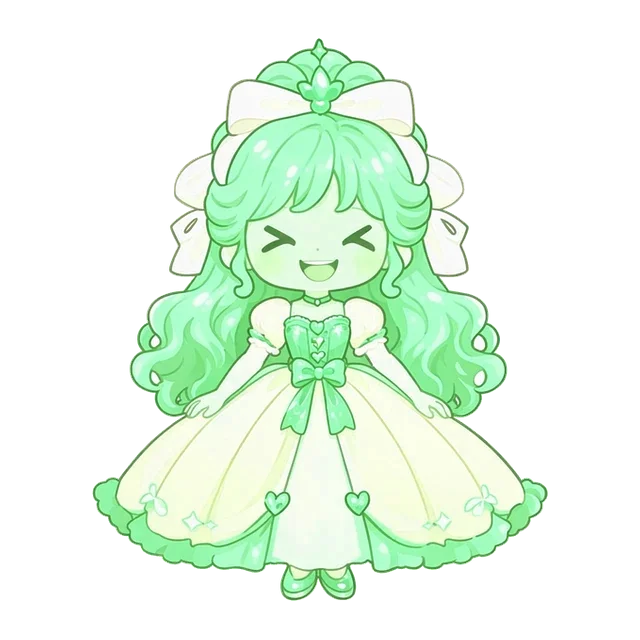
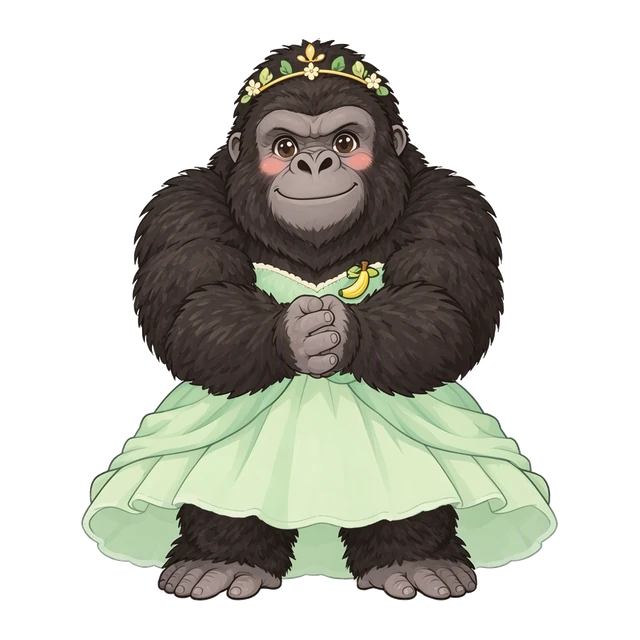
ゴリラの プリンセスの 絵を 本番の 絵に さしかえ（idle/happy/oops は 同じ 1まい）

diff --git a/docs/gorilla-character.md b/docs/gorilla-character.md
@@ -15,9 +15,9 @@
 
 | ファイル | サイズ | 中身 | いまの 仮の 絵 |
 |---|---|---|---|
-| `src/art/chars/gorilla_idle.webp` | 640×640 | ゴリラの プリンセス 立ち絵（ふつう） | ロゼの 絵を みどりに 色がえ |
-| `src/art/chars/gorilla_happy.webp` | 640×640 | よろこび（にっこり、むねの 前で こぶし） | 同上 |
-| `src/art/chars/gorilla_oops.webp` | 640×640 | ざんねん（こまり顔、でも やさしい） | 同上 |
+| `src/art/chars/gorilla_idle.webp` | 640×640 | ゴリラの プリンセス 立ち絵（ふつう） | **本番の 絵**（Moss-image 1まい。白い 背景を tools/art/process.py の 抜き方で 透明に） |
+| `src/art/chars/gorilla_happy.webp` | 640×640 | よろこび（にっこり、むねの 前で こぶし） | いまは idle と 同じ 絵（正解の ドラミングで 表情の ちがいを おぎなう） |
+| `src/art/chars/gorilla_oops.webp` | 640×640 | ざんねん（こまり顔、でも やさしい） | いまは idle と 同じ 絵 |
 | `src/art/chars/gorilla_{idle,happy,oops}_prince.webp` | 640×640 | ゴリラの プリンス（3表情） | レオの 絵を みどりに 色がえ |
 | `src/art/items/g_*.webp`（16こ） | 320×320 | 下の アイテム | ロゼの おなじ スロットの アイテムの コピー |
 | `src/art/items/g_*_prince.webp`（任意） | 320×320 | プリンス用の そうび | 無ければ 上の 共通の 絵 |
